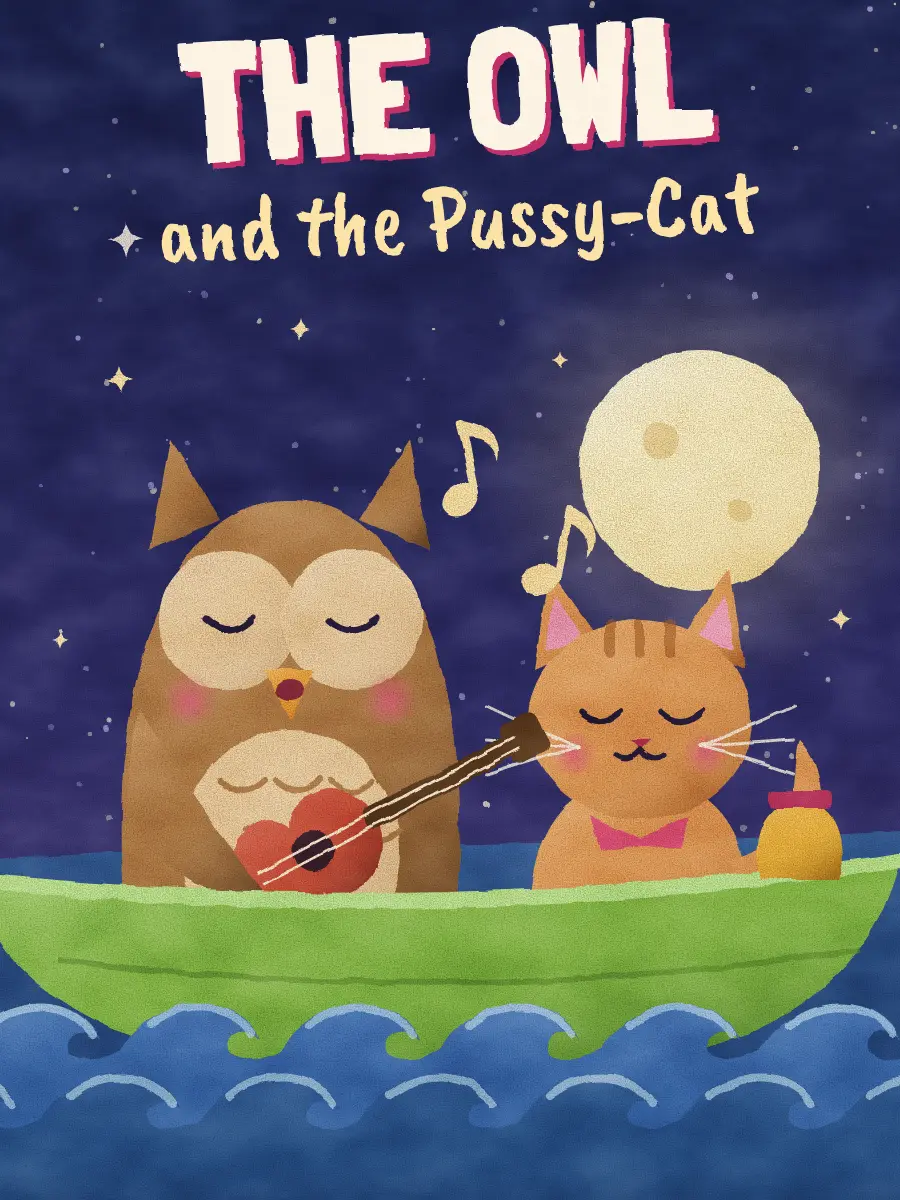
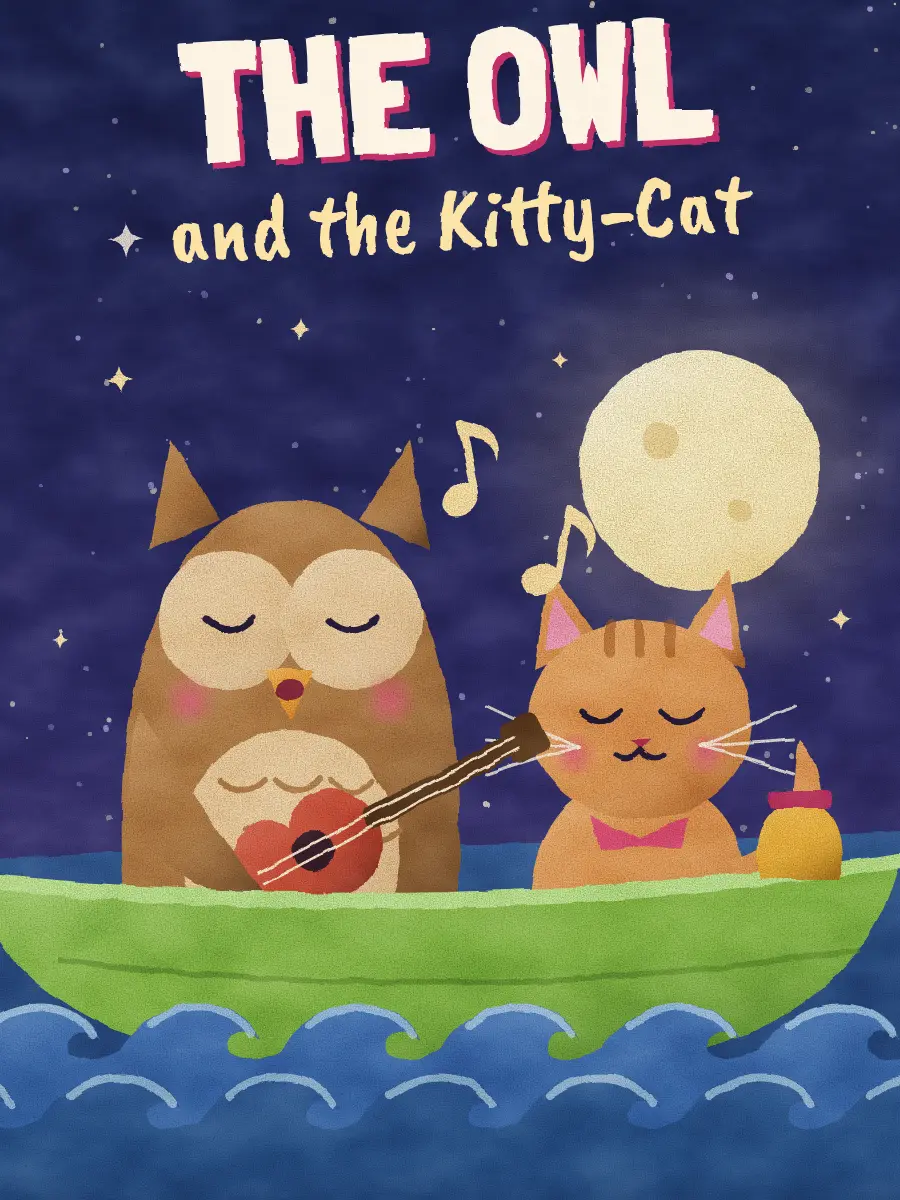
Rename the book to The Owl and the Kitty-Cat
Updates the catalog title, the chapter heading and the cover lettering.
The slug stays the-owl-and-the-pussy-cat so links, reading progress and
narration records keep working.

Claude-Session: https://claude.ai/code/session_0181HZ3TvrWBwg9eeg42yN7W

Changed region(s): [[0.1556, 0.1233, 0.84, 0.2158]]

diff --git a/src/lib/library/catalog.ts b/src/lib/library/catalog.ts
@@ -48,7 +48,7 @@ const ADDED: readonly UpcomingBook[] = [
   { slug: "thumbelina", title: "Thumbelina", author: "Hans Christian Andersen", firstPublished: 1835, approxMinutes: 29 },
   { slug: "the-emperors-new-clothes", title: "The Emperor's New Clothes", author: "Hans Christian Andersen", firstPublished: 1837, approxMinutes: 11 },
   { slug: "the-tale-of-mrs-tiggy-winkle", title: "The Tale of Mrs. Tiggy-Winkle", author: "Beatrix Potter", firstPublished: 1905, approxMinutes: 9 },
-  { slug: "the-owl-and-the-pussy-cat", title: "The Owl and the Pussy-Cat", author: "Edward Lear", firstPublished: 1871, approxMinutes: 2 },
+  { slug: "the-owl-and-the-pussy-cat", title: "The Owl and the Kitty-Cat", author: "Edward Lear", firstPublished: 1871, approxMinutes: 2 },
   { slug: "sleeping-beauty", title: "Sleeping Beauty", author: "The Brothers Grimm", firstPublished: 1812, approxMinutes: 9 },
   { slug: "the-tale-of-two-bad-mice", title: "The Tale of Two Bad Mice", author: "Beatrix Potter", firstPublished: 1904, approxMinutes: 6 },
   { slug: "the-tale-of-mr-jeremy-fisher", title: "The Tale of Mr. Jeremy Fisher", author: "Beatrix Potter", firstPublished: 1906, approxMinutes: 5 },
